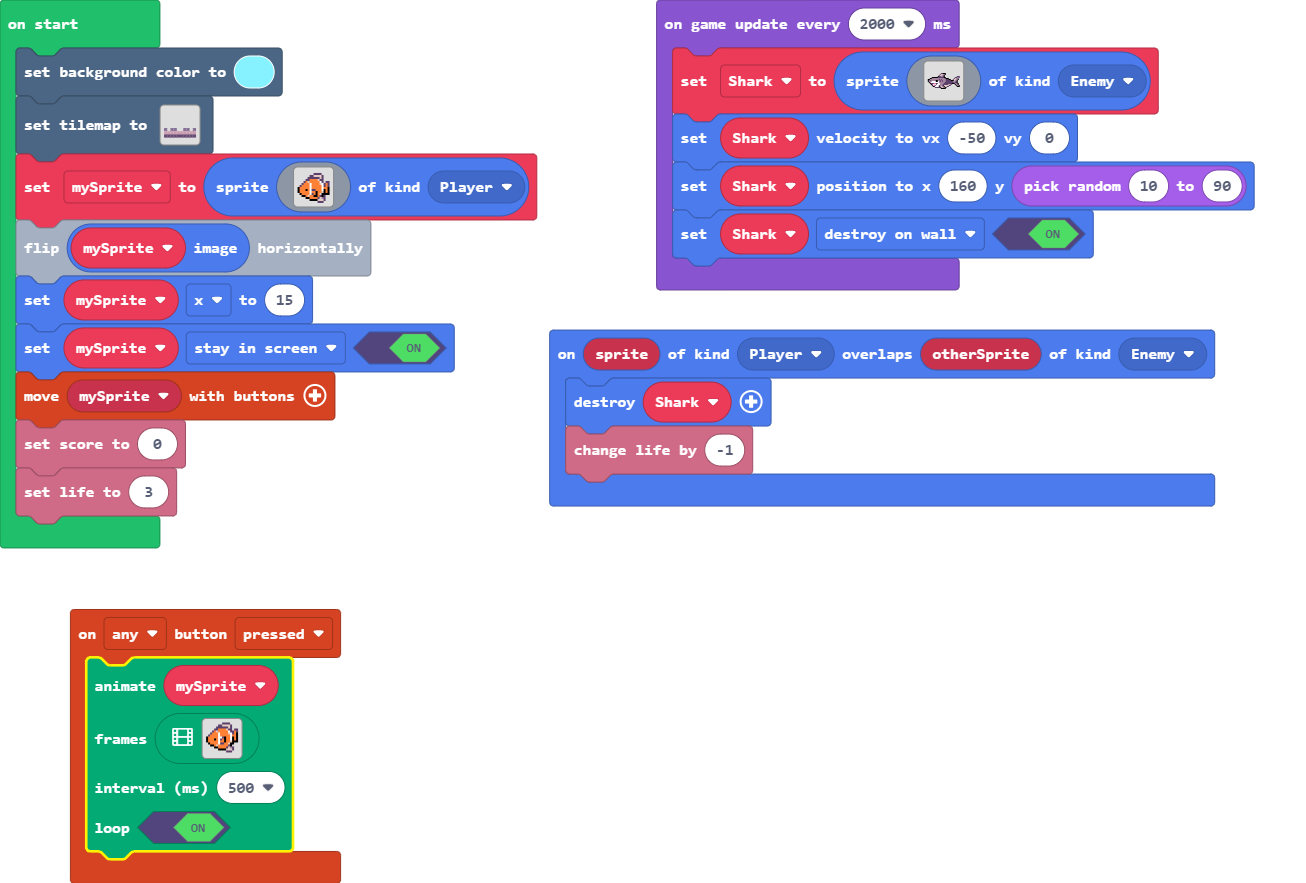
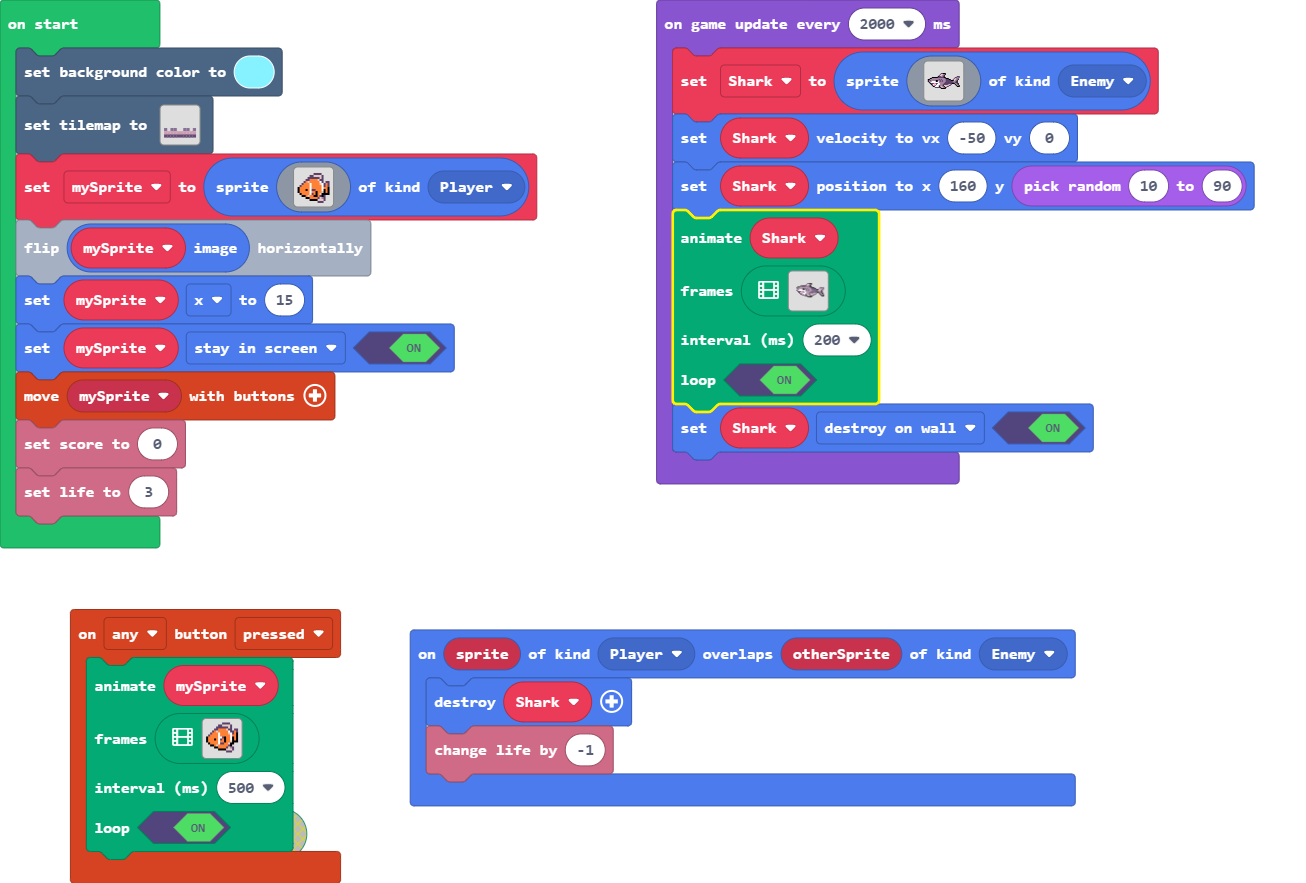
Update main.blocks, main.ts

diff --git a/main.ts b/main.ts
@@ -45,23 +45,6 @@ controller.anyButton.onEvent(ControllerButtonEvent.Pressed, function () {
         . . . . . . . . . . c c c . . . 
         `,img`
         . . . . . . . . . . . . . . . . 
-        . . . . . . . c c c c c . . . . 
-        . . . . . . c d d d d d c . . . 
-        . . . . . . c c c c c d c . . . 
-        . . . . . c 4 4 4 4 d c c . . . 
-        . . . . c d 4 4 4 4 4 1 c . . . 
-        . . . c 4 4 1 4 4 4 4 4 1 c . . 
-        . . c 4 4 4 4 1 4 4 4 4 1 c c c 
-        . c 4 4 4 4 4 1 c c 4 4 1 4 4 c 
-        . c 4 4 4 4 4 1 4 4 f 4 1 f 4 f 
-        f 4 4 4 4 f 4 1 c 4 f 4 d f 4 f 
-        f 4 4 4 4 4 4 1 4 f f 4 f f 4 f 
-        . f 4 4 4 4 1 4 4 4 4 c b c f f 
-        . . f f f d 4 4 4 4 c d d c . . 
-        . . . . . f f f f f c c c . . . 
-        . . . . . . . . . . . . . . . . 
-        `,img`
-        . . . . . . . . . . . . . . . . 
         . . . . . . . . . c c c c . . . 
         . . . . . . . c c d d d d c . . 
         . . . . . c c c c c c d d c . . 
@@ -79,20 +62,20 @@ controller.anyButton.onEvent(ControllerButtonEvent.Pressed, function () {
         . . . . . . . . . . c c c . . . 
         `,img`
         . . . . . . . . . . . . . . . . 
-        . . . . . . . . . . . . . . . . 
-        . . . . . . . . . . . . . . . . 
-        . . . . . . . . . . . . . . . . 
-        . . . . . . . . . . . . . . . . 
-        . . . . . . . . . . . . . . . . 
-        . . . . . . . . . . . . . . . . 
-        . . . . . . . . . . . . . . . . 
-        . . . . . . . . . . . . . . . . 
-        . . . . . . . . . . . . . . . . 
-        . . . . . . . . . . . . . . . . 
-        . . . . . . . . . . . . . . . . 
-        . . . . . . . . . . . . . . . . 
-        . . . . . . . . . . . . . . . . 
-        . . . . . . . . . . . . . . . . 
+        . . . . . . . c c c c c . . . . 
+        . . . . . . c d d d d d c . . . 
+        . . . . . . c c c c c d c . . . 
+        . . . . . c 4 4 4 4 d c c . . . 
+        . . . . c d 4 4 4 4 4 1 c . . . 
+        . . . c 4 4 1 4 4 4 4 4 1 c . . 
+        . . c 4 4 4 4 1 4 4 4 4 1 c c c 
+        . c 4 4 4 4 4 1 c c 4 4 1 4 4 c 
+        . c 4 4 4 4 4 1 4 4 f 4 1 f 4 f 
+        f 4 4 4 4 f 4 1 c 4 f 4 d f 4 f 
+        f 4 4 4 4 4 4 1 4 f f 4 f f 4 f 
+        . f 4 4 4 4 1 4 4 4 4 c b c f f 
+        . . f f f d 4 4 4 4 c d d c . . 
+        . . . . . f f f f f c c c . . . 
         . . . . . . . . . . . . . . . . 
         `],
     500,
@@ -161,5 +144,45 @@ game.onUpdateInterval(2000, function () {
         `, SpriteKind.Enemy)
     Shark.setVelocity(-50, 0)
     Shark.setPosition(160, randint(10, 90))
+    animation.runImageAnimation(
+    Shark,
+    [img`
+        .................ccfff..............
+        ................cddbbf..............
+        ...............cddbbf...............
+        .........ffffffccbbcf...............
+        ......fffbbbbbbbbcccff..............
+        .....fbbbbbbbbbbbbbbbcfff......ccccc
+        .....bcbbbbbffbcbcbbbbcccff...cdbbbc
+        .....bbb1111ffbbcbcbbbcccccffcddbbc.
+        .....fb11111111bcbcbbbcccccccbdbbf..
+        ......fccc33c11bbbbbbcccccccccbbcf..
+        .......fc131cc11bbbbccccccccffbccf..
+        ........f33c1111bbbcccccbdbc..fbbcf.
+        .........ff1111cbbbfdddddcc....fbbf.
+        ...........ccc1fbdbbfddcc.......fbbf
+        ..............ccfbdbbfc..........fff
+        .................fffff..............
+        `,img`
+        ...........fffffff...ccfff..........
+        ..........fbbbbbbbffcbbbbf..........
+        ..........fbb111bbbbbffbf...........
+        ..........fb11111ffbbbbff...........
+        ..........f1cccc1ffbbbbbcff.........
+        ..........ffc1c1c1bbcbcbcccf........
+        ...........fcc3331bbbcbcbcccf..ccccc
+        ............c333c1bbbcbcbccccfcddbbc
+        ............c333c1bbbbbbbcccccddbcc.
+        ............c333c11bbbbbccccccbbcc..
+        ...........cc331c11bbbbccccccfbccf..
+        ...........cc13c11cbbbcccccbbcfccf..
+        ...........c111111cbbbfdddddc.fbbcf.
+        ............cc1111fbdbbfdddc...fbbf.
+        ..............cccfffbdbbfcc.....fbbf
+        ....................fffff........fff
+        `],
+    200,
+    true
+    )
     Shark.setFlag(SpriteFlag.DestroyOnWall, true)
 })
